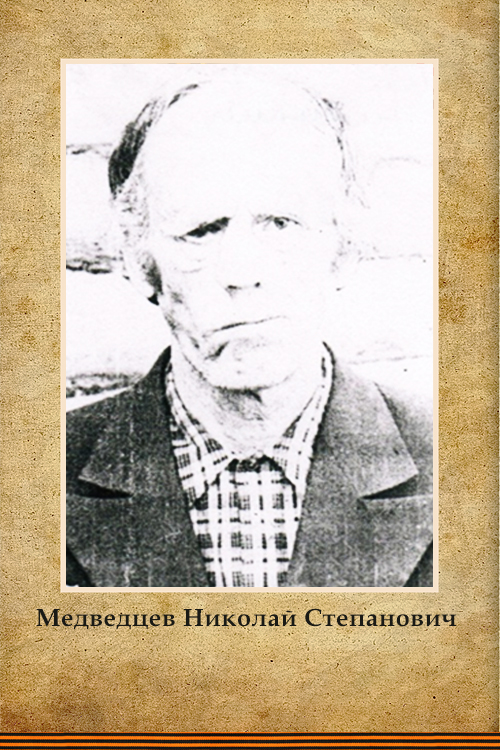
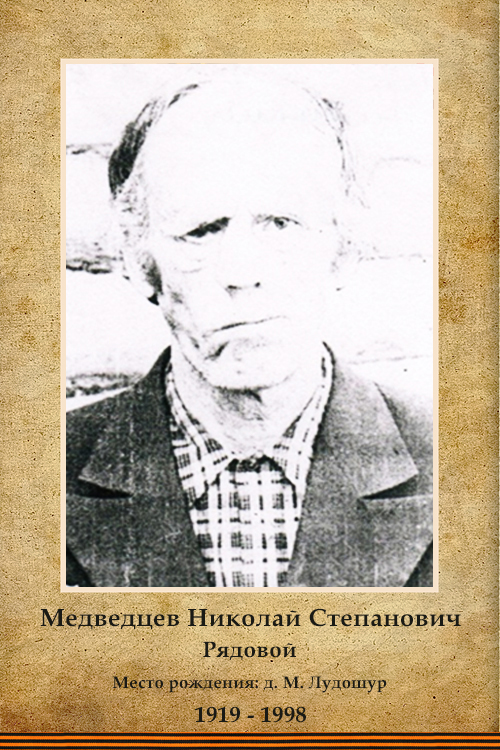
new070824

Changed region(s): [[0.06, 0.7973, 0.93, 0.9813], [0.63, 0.8893, 0.78, 0.92]]

diff --git a/veterany.html b/veterany.html
@@ -162,6 +162,8 @@ $(window).on('beforeunload', function() {
 	<p id="Kyp" style="cursor: pointer;"title="Кыпка">&emsp;"Кыпка"</p>
 	<p id="Lu" style="cursor: pointer;"title="Люм">&emsp;"Люм"</p>
 	<p id="Mac" style="cursor: pointer;"title="Макшур">&emsp;"Макшур"</p>
+	<p id="Ludo" style="cursor: pointer;"title="Малый Лудошур">&emsp;"Малый Лудошур"</p>
+	<p id="Nko" style="cursor: pointer;"title="Нижний Колевай">&emsp;"Нижний Колевай"</p>
   </div>
 </details>
 
@@ -840,6 +842,41 @@ $('.item').css({
 $('.details__title').html('Макшур');	
 });
 </script>
+
+<script>
+$('#Ludo').click(function() {
+$('.item').css({
+        'display': 'none'
+    });
+    $('#Ludo1').css({
+        'display': 'block'
+    });
+    $('#Ludo2').css({
+        'display': 'block'
+    });
+	$('#Ludo3').css({
+        'display': 'block'
+    });
+	$('#Ludo4').css({
+        'display': 'block'
+    });
+$('.details__title').html('Малый Лудошур');	
+});
+</script>
+
+<script>
+$('#Nko').click(function() {
+$('.item').css({
+        'display': 'none'
+    });
+    $('#Nko1').css({
+        'display': 'block'
+    });
+$('.details__title').html('Нижний Колевай');	
+});
+</script>
+
+
 
 
 
@@ -4010,7 +4047,7 @@ $(document).ready(function(){
     });
 });
 </script>		
-				<div class="item">
+				<div id="Ludo1" class="item">
 			<div>
 				<a data-lightbox="lightbox" href="img/big/083.jpg">
 					<img class="front" src="img/small/083.jpg" title="Иванов Аркадий Петрович">
@@ -5755,7 +5792,7 @@ $(document).ready(function(){
     });
 });
 </script>
-		<div class="item">
+		<div id="Ludo2" class="item">
 			<div>
 				<a data-lightbox="lightbox" href="img/big/0154.jpg">
 					<img class="front" src="img/small/0154.jpg" title="Медведцев Александр Филиппович">
@@ -5773,7 +5810,7 @@ $(document).ready(function(){
     });
 });
 </script>
-		<div class="item">
+		<div id="Ludo3" class="item">
 			<div>
 				<a data-lightbox="lightbox" href="img/big/0155.jpg">
 					<img class="front" src="img/small/0155.jpg" title="Медведцев Аркадий Павлович">
@@ -5827,7 +5864,7 @@ $(document).ready(function(){
     });
 });
 </script>
-		<div class="item">
+		<div id="Ludo4" class="item">
 			<div>
 				<a data-lightbox="lightbox" href="img/big/0158.jpg">
 					<img class="front" src="img/small/0158.jpg" title="Медведцев Николай Степанович">
@@ -6006,7 +6043,7 @@ $(document).ready(function(){
     });
 });
 </script>
-		<div class="item">
+		<div id="Nko1" class="item">
 			<div>
 				<a data-lightbox="lightbox" href="img/big/0406.jpg">
 					<img class="front" src="img/small/0406.jpg" title="Мышкин Алексей Григорьевич"></a>
